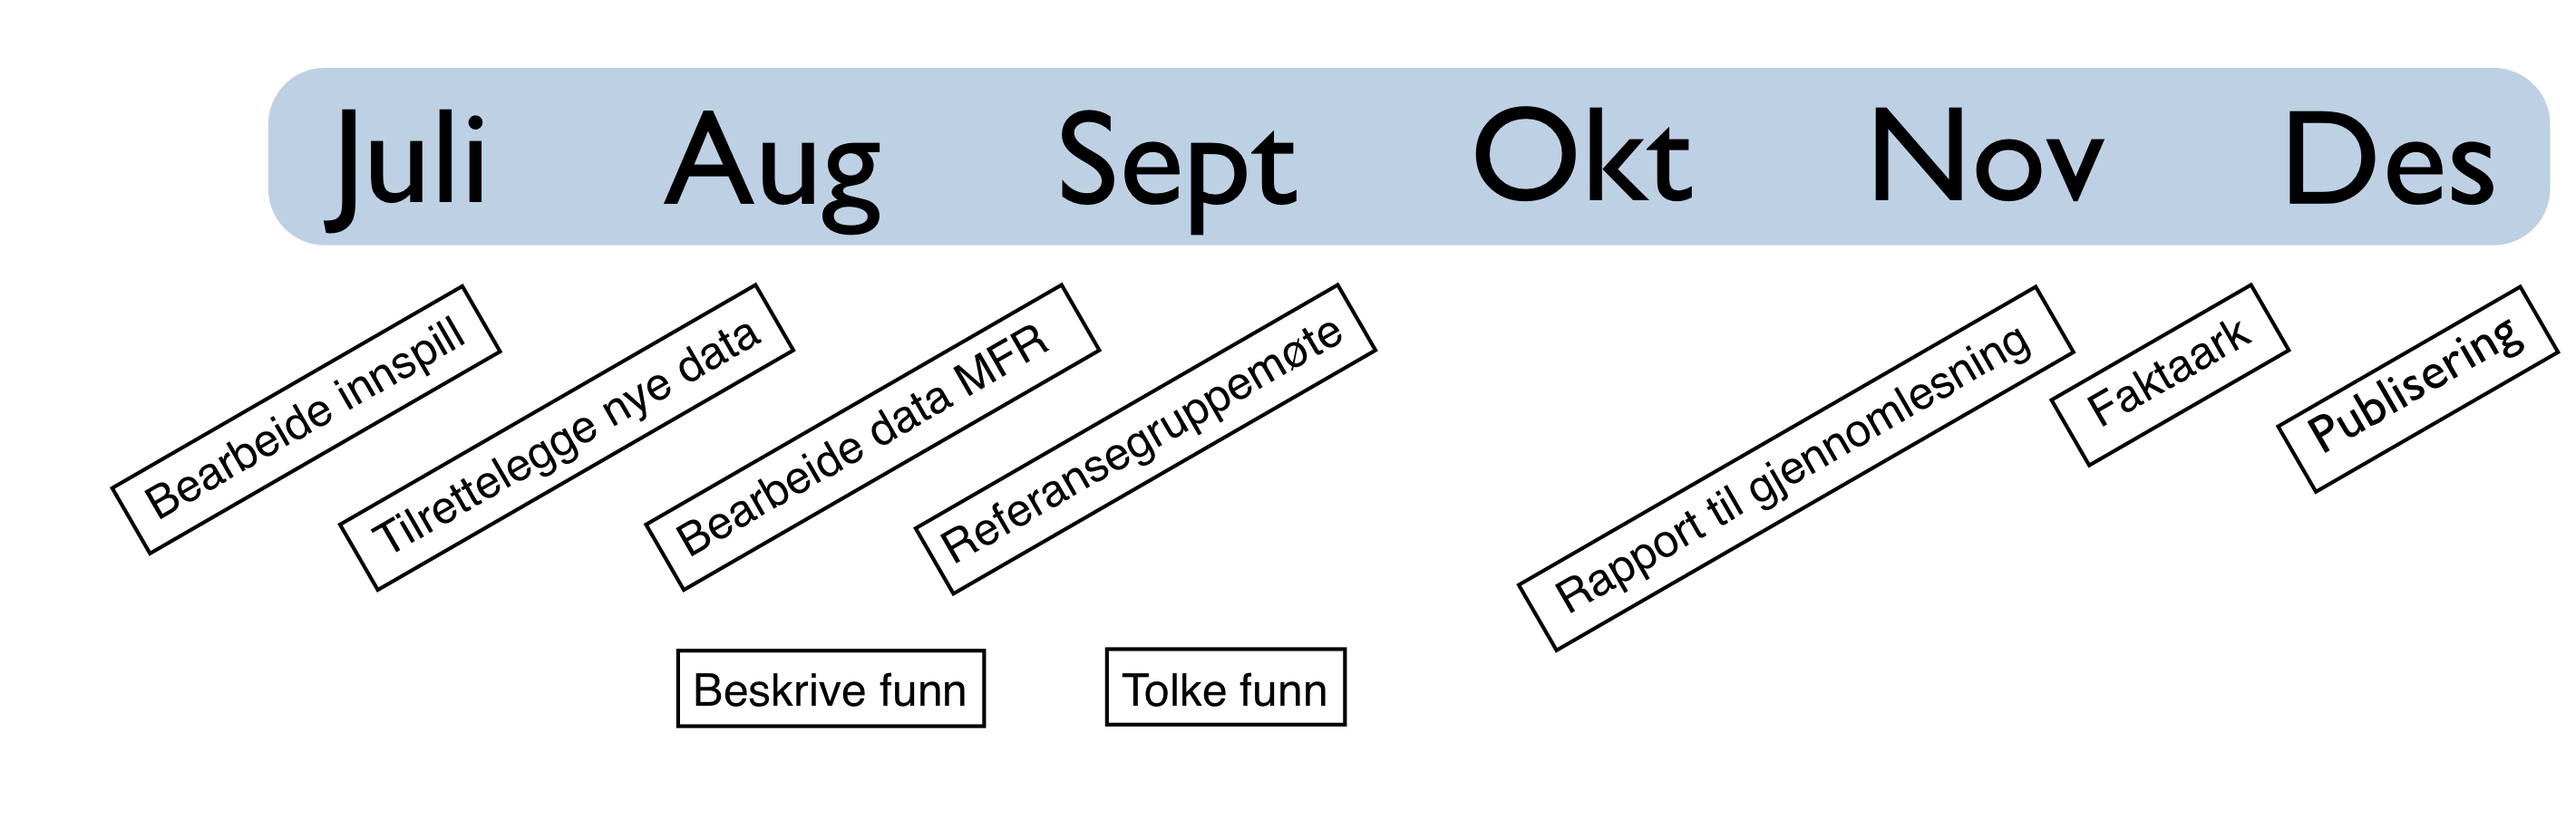
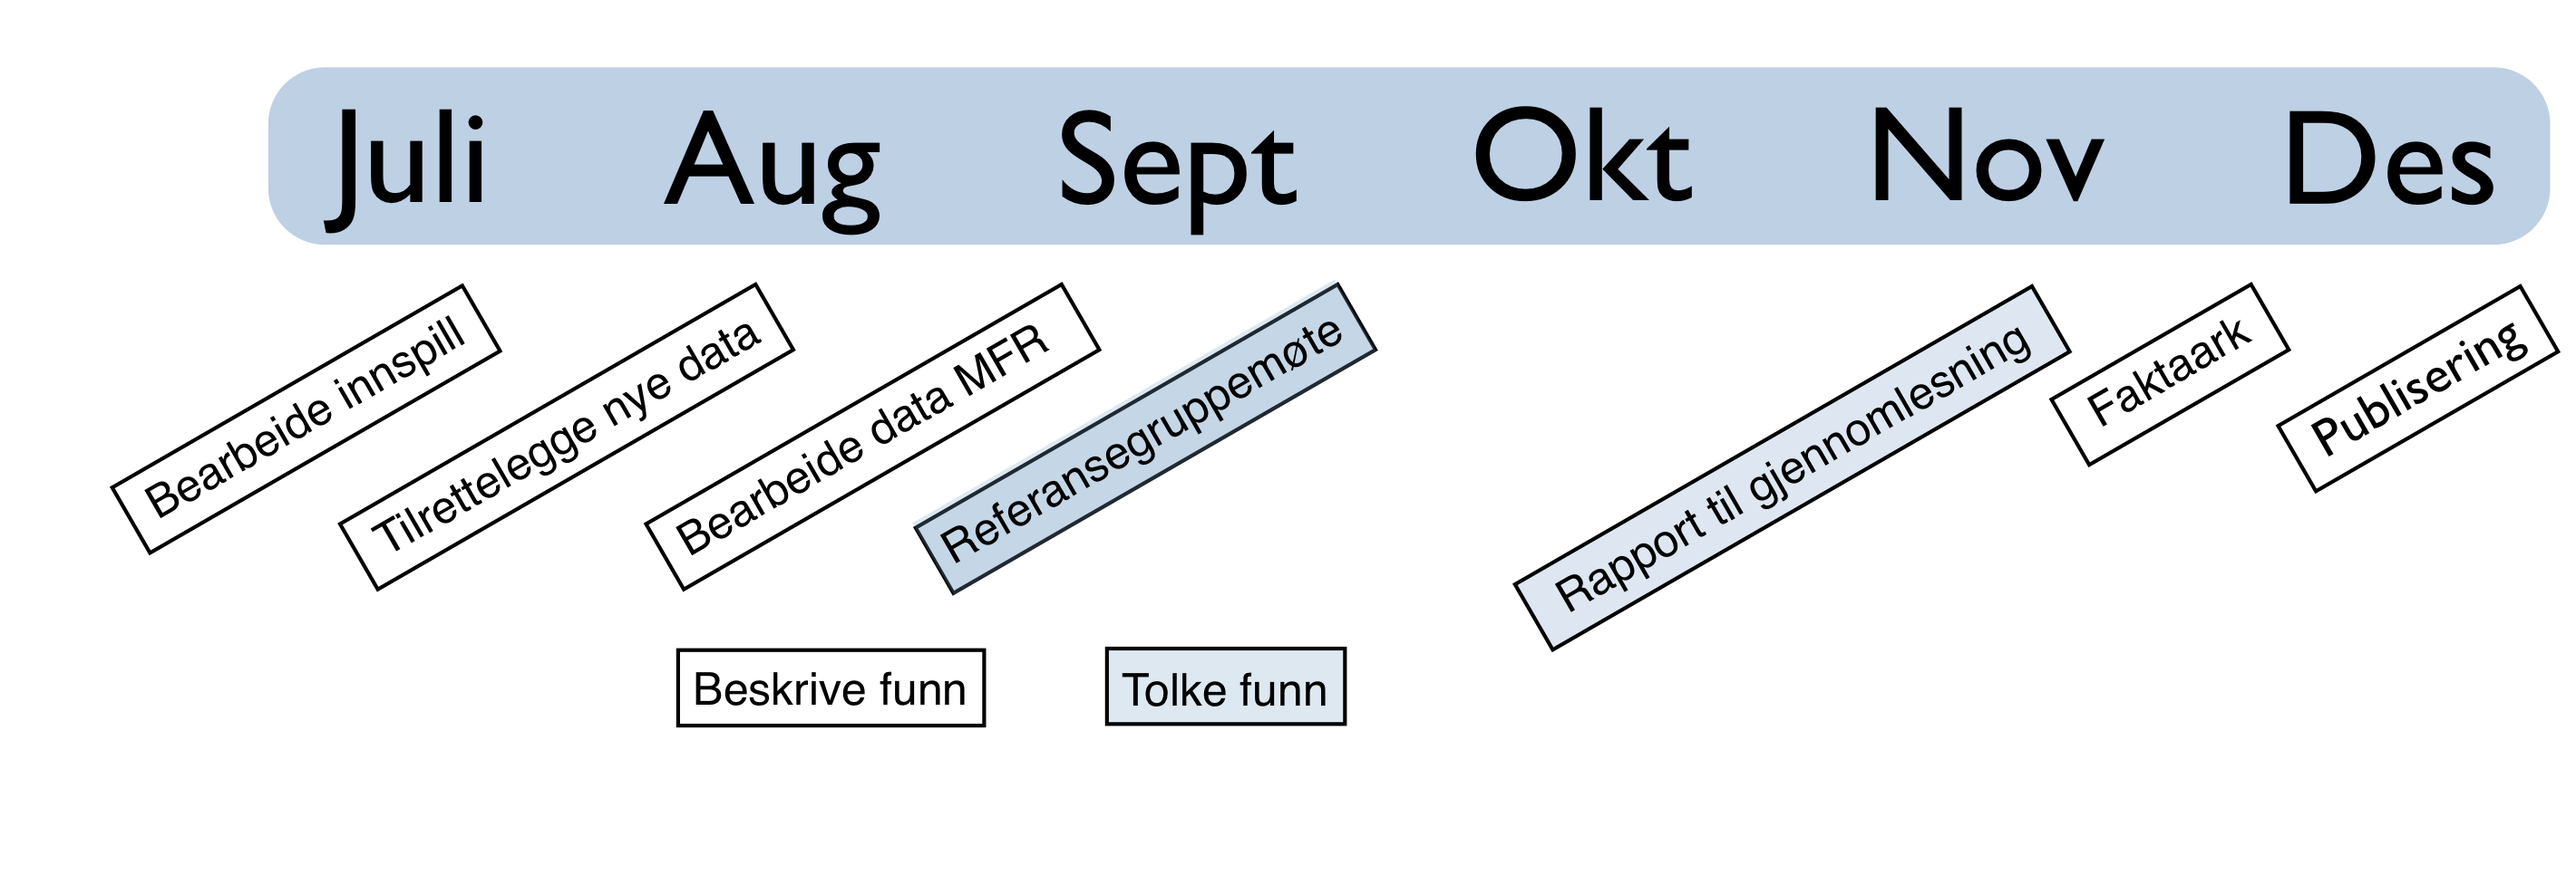
minor
- added some colors to tidsskjema
- some bugs

diff --git a/2018_06_08_kvinnehelse.css b/2018_06_08_kvinnehelse.css
@@ -102,7 +102,7 @@ Remove slide number
 }
 
 .tiny {
-  font-size: 0.7em;
+  font-size: 0.8em;
 }
 
 td {

diff --git a/2018_06_08_kvinnehelse.md b/2018_06_08_kvinnehelse.md
@@ -5,20 +5,20 @@ layout: true
 name: reduced
 layout: true
 class: left
-background-image: url(bg_wide_reduced.png)
+background-image: url(bg_wide_reduced.png?1)
 
 
 ---
 name: front
 layout: true
 class: center, middle
-background-image: url(bg_front_wide.png)
+background-image: url(bg_front_wide.png?1)
 
 ---
 name: normal
 layout: true
 class: left
-background-image: url(bg_wide.png)
+background-image: url(bg_wide.png?1)
 
 ---
 template:front
@@ -117,7 +117,7 @@ template: mfr
 - Blødningsforstyrrelser .graa[(]<b>X05?</b>.graa[, X06, X07, X08)]
 - Endometriebiopsi .graa[(takst 214c)]
 - <b>Kontakter ifm svangerskap</b>$^\ast$
-.footnote[$^\ast$ W95/W99 barsel eller svangerskap?<br> Inkluderer 217c jordmor på helsestasjon?] 
+.footnote[$^\ast$ &#8209;W95/W99 barsel eller svangerskap?<br>&nbsp;&nbsp;&nbsp;&#8209;Inkluderer 217c jordmor på helsestasjon?] 
 - <b>Komplikasjoner/kontakter ifm barseltid</b>$^\ast$
 - Spiral og p-stav .graa[(takst 214a ekskludert de med takst 149a)]
 ]
@@ -161,7 +161,7 @@ template: reduced
 <tr><td></td><td>UL i svangerskap</td><td>NPR</td><td class="tall">463473</td><td class="tall"></td></tr>
 <tr><td></td><td>Fødsel</td><td>MFR</td><td class="tall"></td><td class="tall"></td></tr>
 <tr><td></td><td>Poliklinikk i barseltid</td><td>NPR, KUHR</td><td class="tall"></td><td class="tall"></td></tr>
-<tr><td>Tilstander (oftest) etter svangerskap og fødsel</td><td>Prolaps kv. kjønnsorgan</td><td>NPR, KUHR</td><td class="tall">24814</td><td class="tall">4027</td></tr>
+<tr><td>Tilstander etter svangerskap og fødsel&nbsp;</td><td>Prolaps kv. kjønnsorgan</td><td>NPR, KUHR</td><td class="tall">24814</td><td class="tall">4027</td></tr>
 <tr><td></td><td>Postmenopausal blødn.</td><td>NPR, KUHR</td><td class="tall">9490</td><td class="tall"></td></tr>
 <tr><td></td><td>Urininkontinens</td><td>NPR</td><td class="tall">26604</td><td class="tall">2528</td></tr>
 <tr><td></td><td>Kraftige/hyppige blødn.</td><td>NPR, KUHR</td><td class="tall">23745</td><td class="tall">3080</td></tr>
@@ -206,15 +206,16 @@ template:front
 .subtitle[Rapport og faktaark]
 
 ---
+template:normal
 
 # Rapporten
 
 <div style="width: 95%;">
    <div style="float:right; width: 50%;">
-<img src="fig/kvinne_front.png" width="75%" height=auto>
+<img src="fig/kvinne_front.png?1" width="75%" height=auto>
    </div>
    <div style="float:left; width: 50%; padding-top: 2em;">
-Inneholder<br>
+Inneholder
 <ul>
 <li> Sammendrag </li>
 <li> Innledning </li>
@@ -222,6 +223,7 @@ Inneholder<br>
 <li> Resultatkapitler </li>
 <li> Drøftingskapittel </li>
 <li> Oppsummering og konklusjon </li>
+<li> Referanseliste </li>
 </ul>
    </div>
 </div>
@@ -236,20 +238,21 @@ template:normal
    <div style="float:left;width: 50%; padding-top: 2em;">
    Ett faktaark pr. fagområde
    <ul>
-   <li> Tre-fire figurer </li>
    <li> For folk flest </li>
+   <li> To-tre figurer </li>
 <li> Bakgrunn, om resultatene, og kommentar </li>
 <li> Lages etter at førsteutkastet til rapporten er ferdig </li>
 </ul>
    </div>
    <div style="float:right; width: 50%;">
-   <img src="fig/faktaark.png" width="75%" height=auto>
+   <img src="fig/faktaark.png?1" width="75%" height=auto>
    </div>
 </div>
 <div style="clear:both"></div>
 
 
 ---
+template:normal
 
 # Rapporten
 
@@ -270,6 +273,7 @@ Vi ved SKDE vil skrive store deler av rapporten, inkludert
 ]
 
 ---
+template:normal
 
 # Rapporten
 
@@ -312,10 +316,8 @@ template: reduced
 ]
 
 <div style="float:left;width: 80%; padding-top: 1em;">
-     <img src="fig/tidsskjema.png?22" width="100%" height=auto align="bottom">
+     <img src="fig/tidsskjema.png?1" width="100%" height=auto align="bottom">
 </div>
 ---
-
-
 template: blank
 
